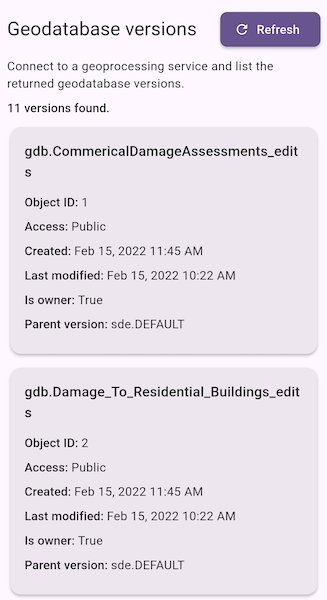
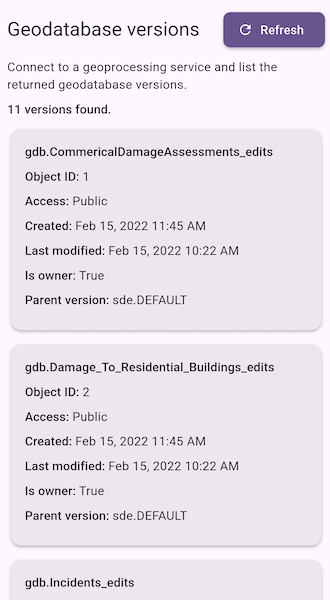
Review update

diff --git a/lib/samples/list_geodatabase_versions/list_geodatabase_versions.dart b/lib/samples/list_geodatabase_versions/list_geodatabase_versions.dart
@@ -13,7 +13,6 @@
 // See the License for the specific language governing permissions and
 // limitations under the License.
 //
-
 import 'dart:async';
 
 import 'package:arcgis_maps/arcgis_maps.dart';
@@ -42,22 +41,32 @@ class _ListGeodatabaseVersionsState extends State<ListGeodatabaseVersions>
   // The geoprocessing job created to list versions. Stored here so it can be
   // cancelled if the widget is disposed.
   GeoprocessingJob? _job;
+
+  // A flag to indicate whether the geoprocessing task is currently running.
   var _isLoading = false;
+
+  // A message to display if an error occurs while loading versions.
   var _errorMessage = '';
+
+  // The list of geodatabase versions returned by the geoprocessing task.
   var _versions = <_GeodatabaseVersionInfo>[];
 
   @override
   void initState() {
     super.initState();
+    // Load the versions when the widget is first created.
     _loadVersions().ignore();
   }
 
   @override
   void dispose() {
+    // Cancel the geoprocessing job if it's still running when the widget is disposed.
     _job?.cancel().ignore();
     super.dispose();
   }
 
+  // Build the UI for the sample, showing a list of geodatabase versions and
+  // a button to refresh the list.
   @override
   Widget build(BuildContext context) {
     return Scaffold(
@@ -69,6 +78,8 @@ class _ListGeodatabaseVersionsState extends State<ListGeodatabaseVersions>
               crossAxisAlignment: CrossAxisAlignment.start,
               spacing: 8,
               children: [
+                // A row with the title of the sample and a button to refresh
+                // the list of versions.
                 Row(
                   children: [
                     Expanded(
@@ -84,23 +95,26 @@ class _ListGeodatabaseVersionsState extends State<ListGeodatabaseVersions>
                     ),
                   ],
                 ),
+                // A description of the sample and a count of how many versions have been loaded.
                 Text(
-                  'Connect to a geoprocessing service and list the returned '
-                  'geodatabase versions.',
+                  'Connect to a geoprocessing service and list the returned geodatabase versions.',
                   style: Theme.of(context).textTheme.bodyMedium,
                 ),
+                // Show the number of versions loaded, or a message if no versions have been loaded yet.
                 Text(
                   _versions.isEmpty
                       ? 'No versions loaded.'
                       : '${_versions.length} versions found.',
                   style: Theme.of(context).textTheme.titleSmall,
                 ),
+                // Show an error message if one exists.
                 if (_errorMessage.isNotEmpty) ...[
                   Text(
                     _errorMessage,
                     style: Theme.of(context).textTheme.customErrorStyle,
                   ),
                 ],
+                // Show the list of versions in an expanded widget to fill available space.
                 Expanded(child: _buildVersionList()),
               ],
             ),
@@ -111,6 +125,8 @@ class _ListGeodatabaseVersionsState extends State<ListGeodatabaseVersions>
     );
   }
 
+  // Build a list view to display the geodatabase versions. If no versions have
+  // been loaded yet, show a message prompting the user to refresh the list.
   Widget _buildVersionList() {
     if (_versions.isEmpty) {
       return ListView(
@@ -119,15 +135,16 @@ class _ListGeodatabaseVersionsState extends State<ListGeodatabaseVersions>
             child: Padding(
               padding: EdgeInsets.all(16),
               child: Text(
-                'Tap Refresh to run the geoprocessing task and view the '
-                'versions returned by the service.',
+                'Tap Refresh to run the geoprocessing task and view the geodatabase versions returned by the service.',
               ),
             ),
           ),
         ],
       );
     }
-
+    // Build a list view of cards, one for each geodatabase version.
+    // Each card shows information about the version,
+    // such as its name, access level, creation date, and other relevant details.
     return RefreshIndicator(
       onRefresh: _loadVersions,
       child: ListView.separated(
@@ -141,7 +158,9 @@ class _ListGeodatabaseVersionsState extends State<ListGeodatabaseVersions>
     );
   }
 
+  // Load the geodatabase versions by running the geoprocessing task.
   Future<void> _loadVersions() async {
+    // If a load is already in progress, do nothing.
     if (_isLoading) {
       return;
     }
@@ -164,6 +183,7 @@ class _ListGeodatabaseVersionsState extends State<ListGeodatabaseVersions>
 
       // Run the job and wait for the result.
       final result = await job.run();
+
       // Get the "Versions" output from the result, which should be a feature set.
       final output = result.outputs['Versions'];
       if (output is! GeoprocessingFeatures) {
@@ -218,10 +238,12 @@ class _ListGeodatabaseVersionsState extends State<ListGeodatabaseVersions>
 class _VersionCard extends StatelessWidget {
   const _VersionCard({required this.version});
 
+  // The geodatabase version to display information about.
   final _GeodatabaseVersionInfo version;
 
   @override
   Widget build(BuildContext context) {
+    // Build a card to display the version information.
     return Card(
       child: Padding(
         padding: const EdgeInsets.all(16),
@@ -229,11 +251,8 @@ class _VersionCard extends StatelessWidget {
           child: Column(
             crossAxisAlignment: CrossAxisAlignment.start,
             children: [
-              Text(
-                version.name,
-                style: Theme.of(context).textTheme.titleMedium,
-              ),
-              const SizedBox(height: 12),
+              Text(version.name, style: Theme.of(context).textTheme.titleSmall),
+              const SizedBox(height: 8),
               _InfoRow(
                 label: 'Object ID',
                 value: version.objectId?.toString() ?? 'Unavailable',
@@ -286,7 +305,6 @@ class _InfoRow extends StatelessWidget {
 
 // A class to hold information about a geodatabase version,
 // extracted from the attributes of a geoprocessing result feature.
-
 class _GeodatabaseVersionInfo {
   _GeodatabaseVersionInfo({
     required this.name,
